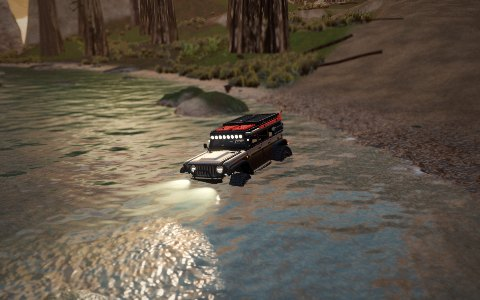
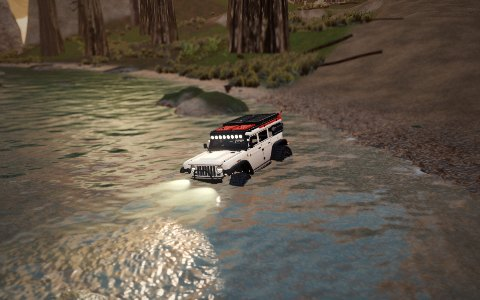
RC Crawler: SCX30 Wrangler back to gloss white
Driving alone, the Axial SCX30 Wrangler wears gloss white again (the Bronco
stays red). Terrain cards re-captured with the white Wrangler.

diff --git a/public/rc-crawler/src/vehicles/bodies.js b/public/rc-crawler/src/vehicles/bodies.js
@@ -11,7 +11,7 @@ import { MeshoptDecoder } from 'three/addons/libs/meshopt_decoder.module.js';
 import { CRAWLER_DIMS } from './crawlerModel.js';
 
 export const VEHICLES = [
-  { id: 'scx30', name: 'SCX30 Jeep Wrangler JLU', short: 'WRANGLER', color: 0x141518 },   // gloss black
+  { id: 'scx30', name: 'SCX30 Jeep Wrangler JLU', short: 'WRANGLER', color: 0xf1f1ee },   // gloss white
   {
     id: 'bronco', name: '2022 Ford Bronco', short: 'BRONCO', color: 0xa8141c, file: 'assets/vehicles/bronco.glb', paint: /Pintura/i, lamps: /Refletor_Farol/i, exact: true,   // as modelled
     wheels: { front: 1.611, rear: -1.264, y: 0.425, x: 0.84, r: 0.425 },
